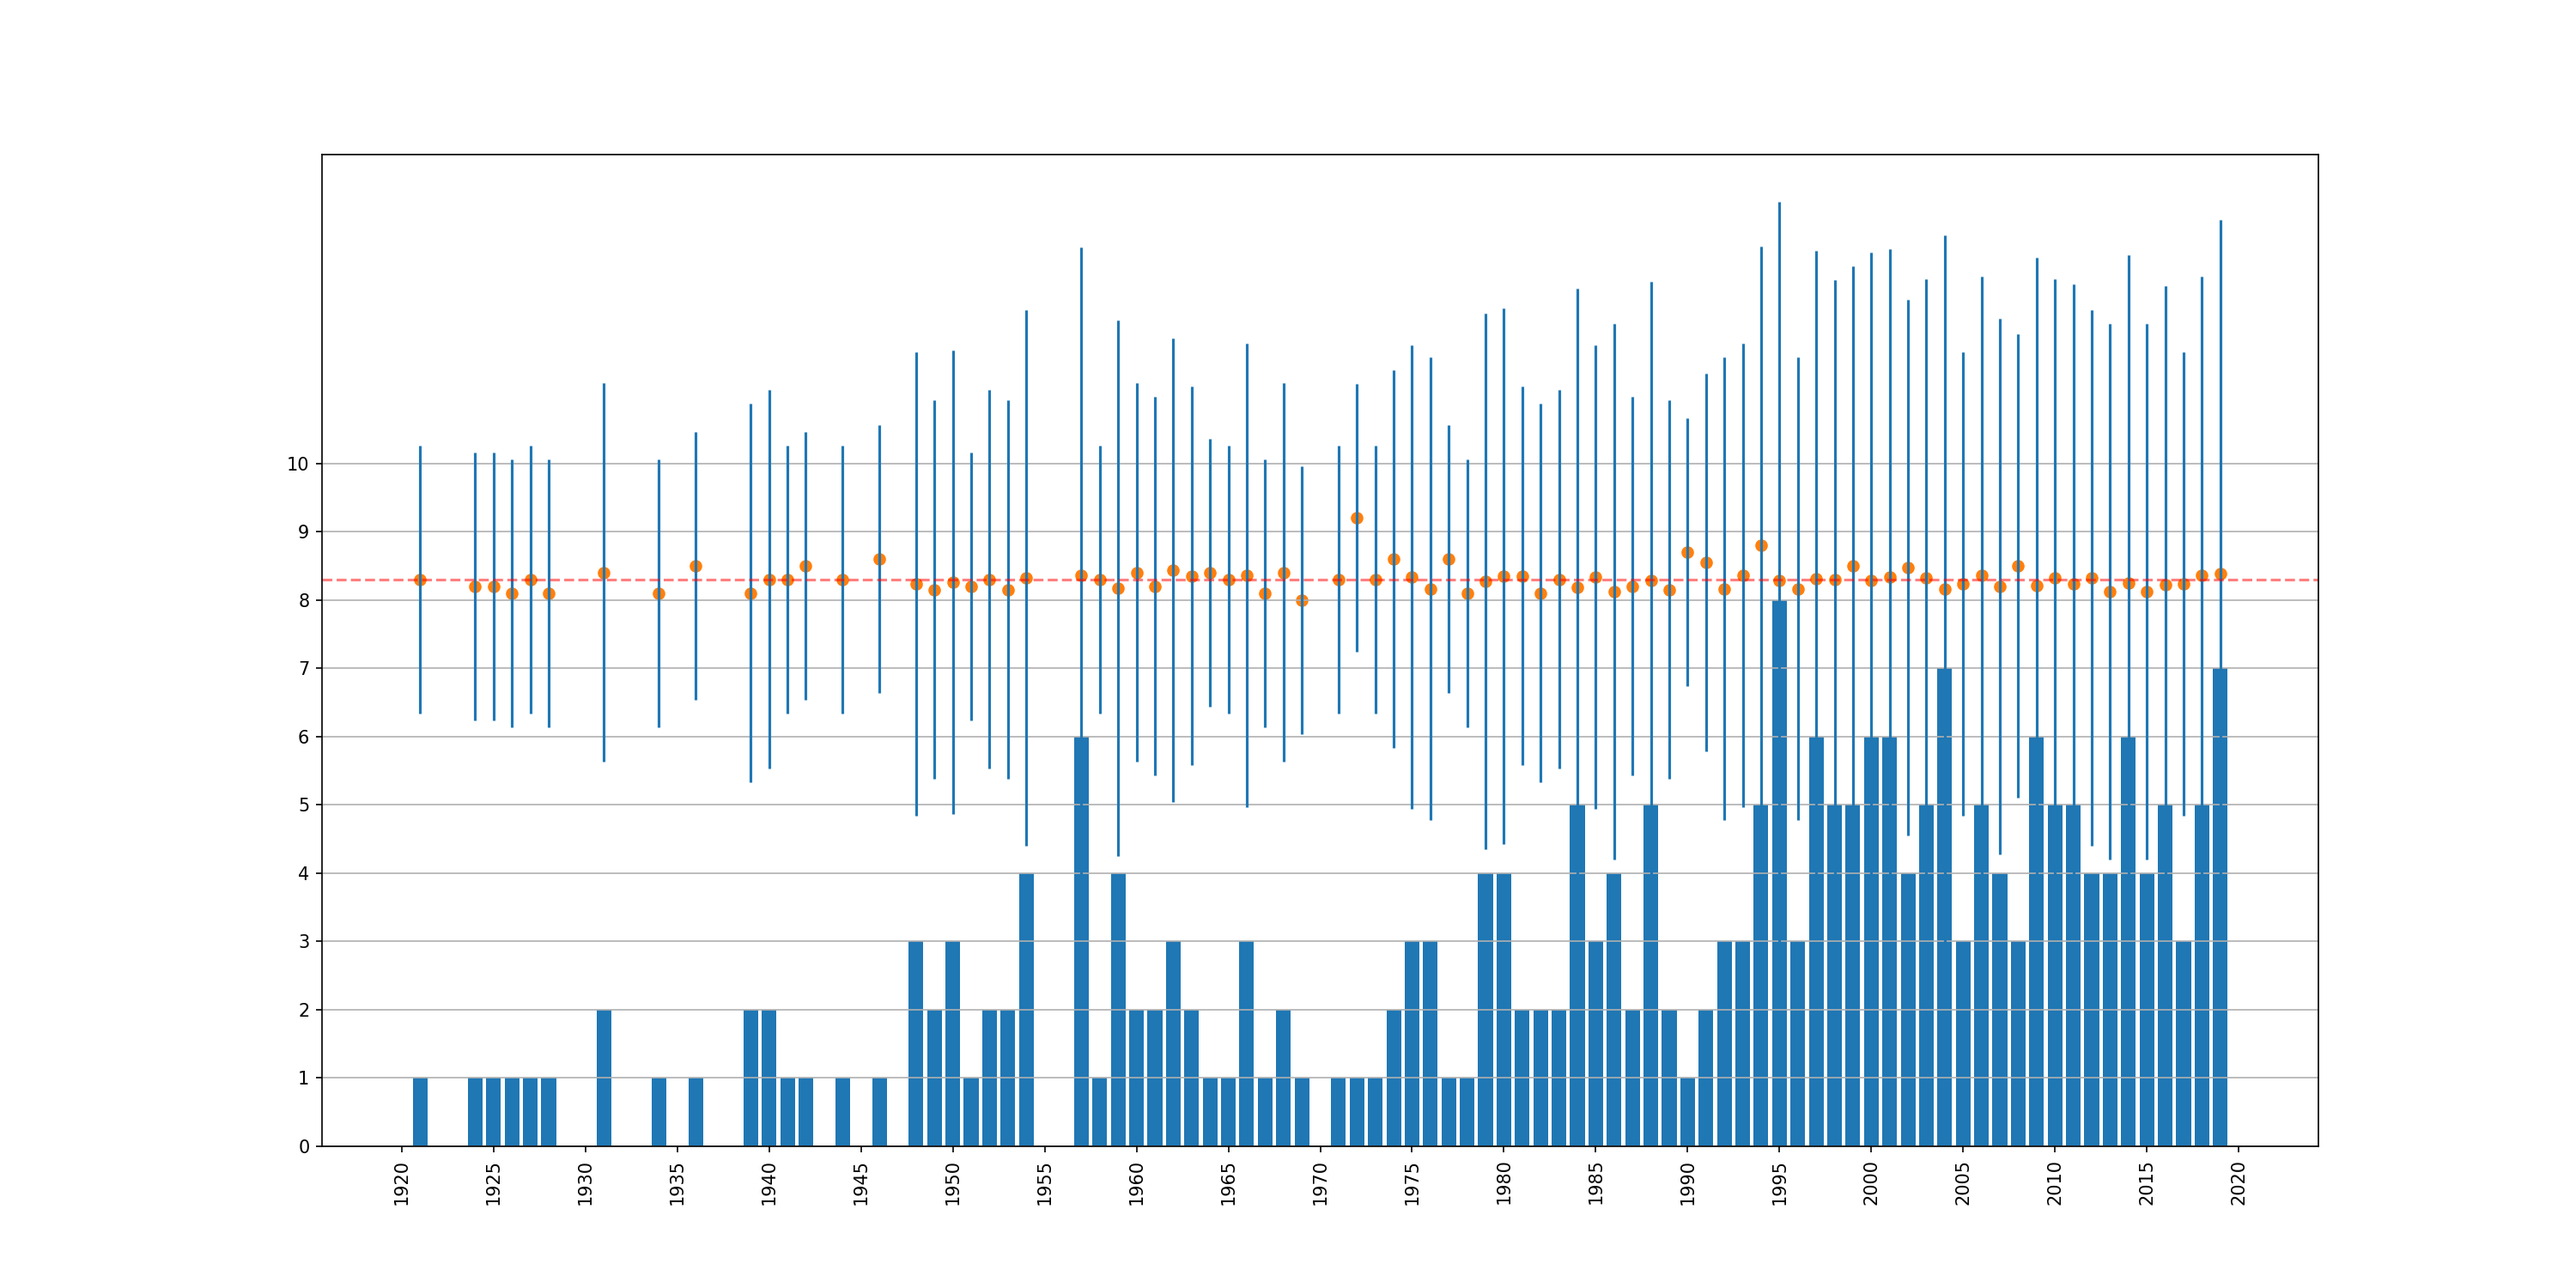
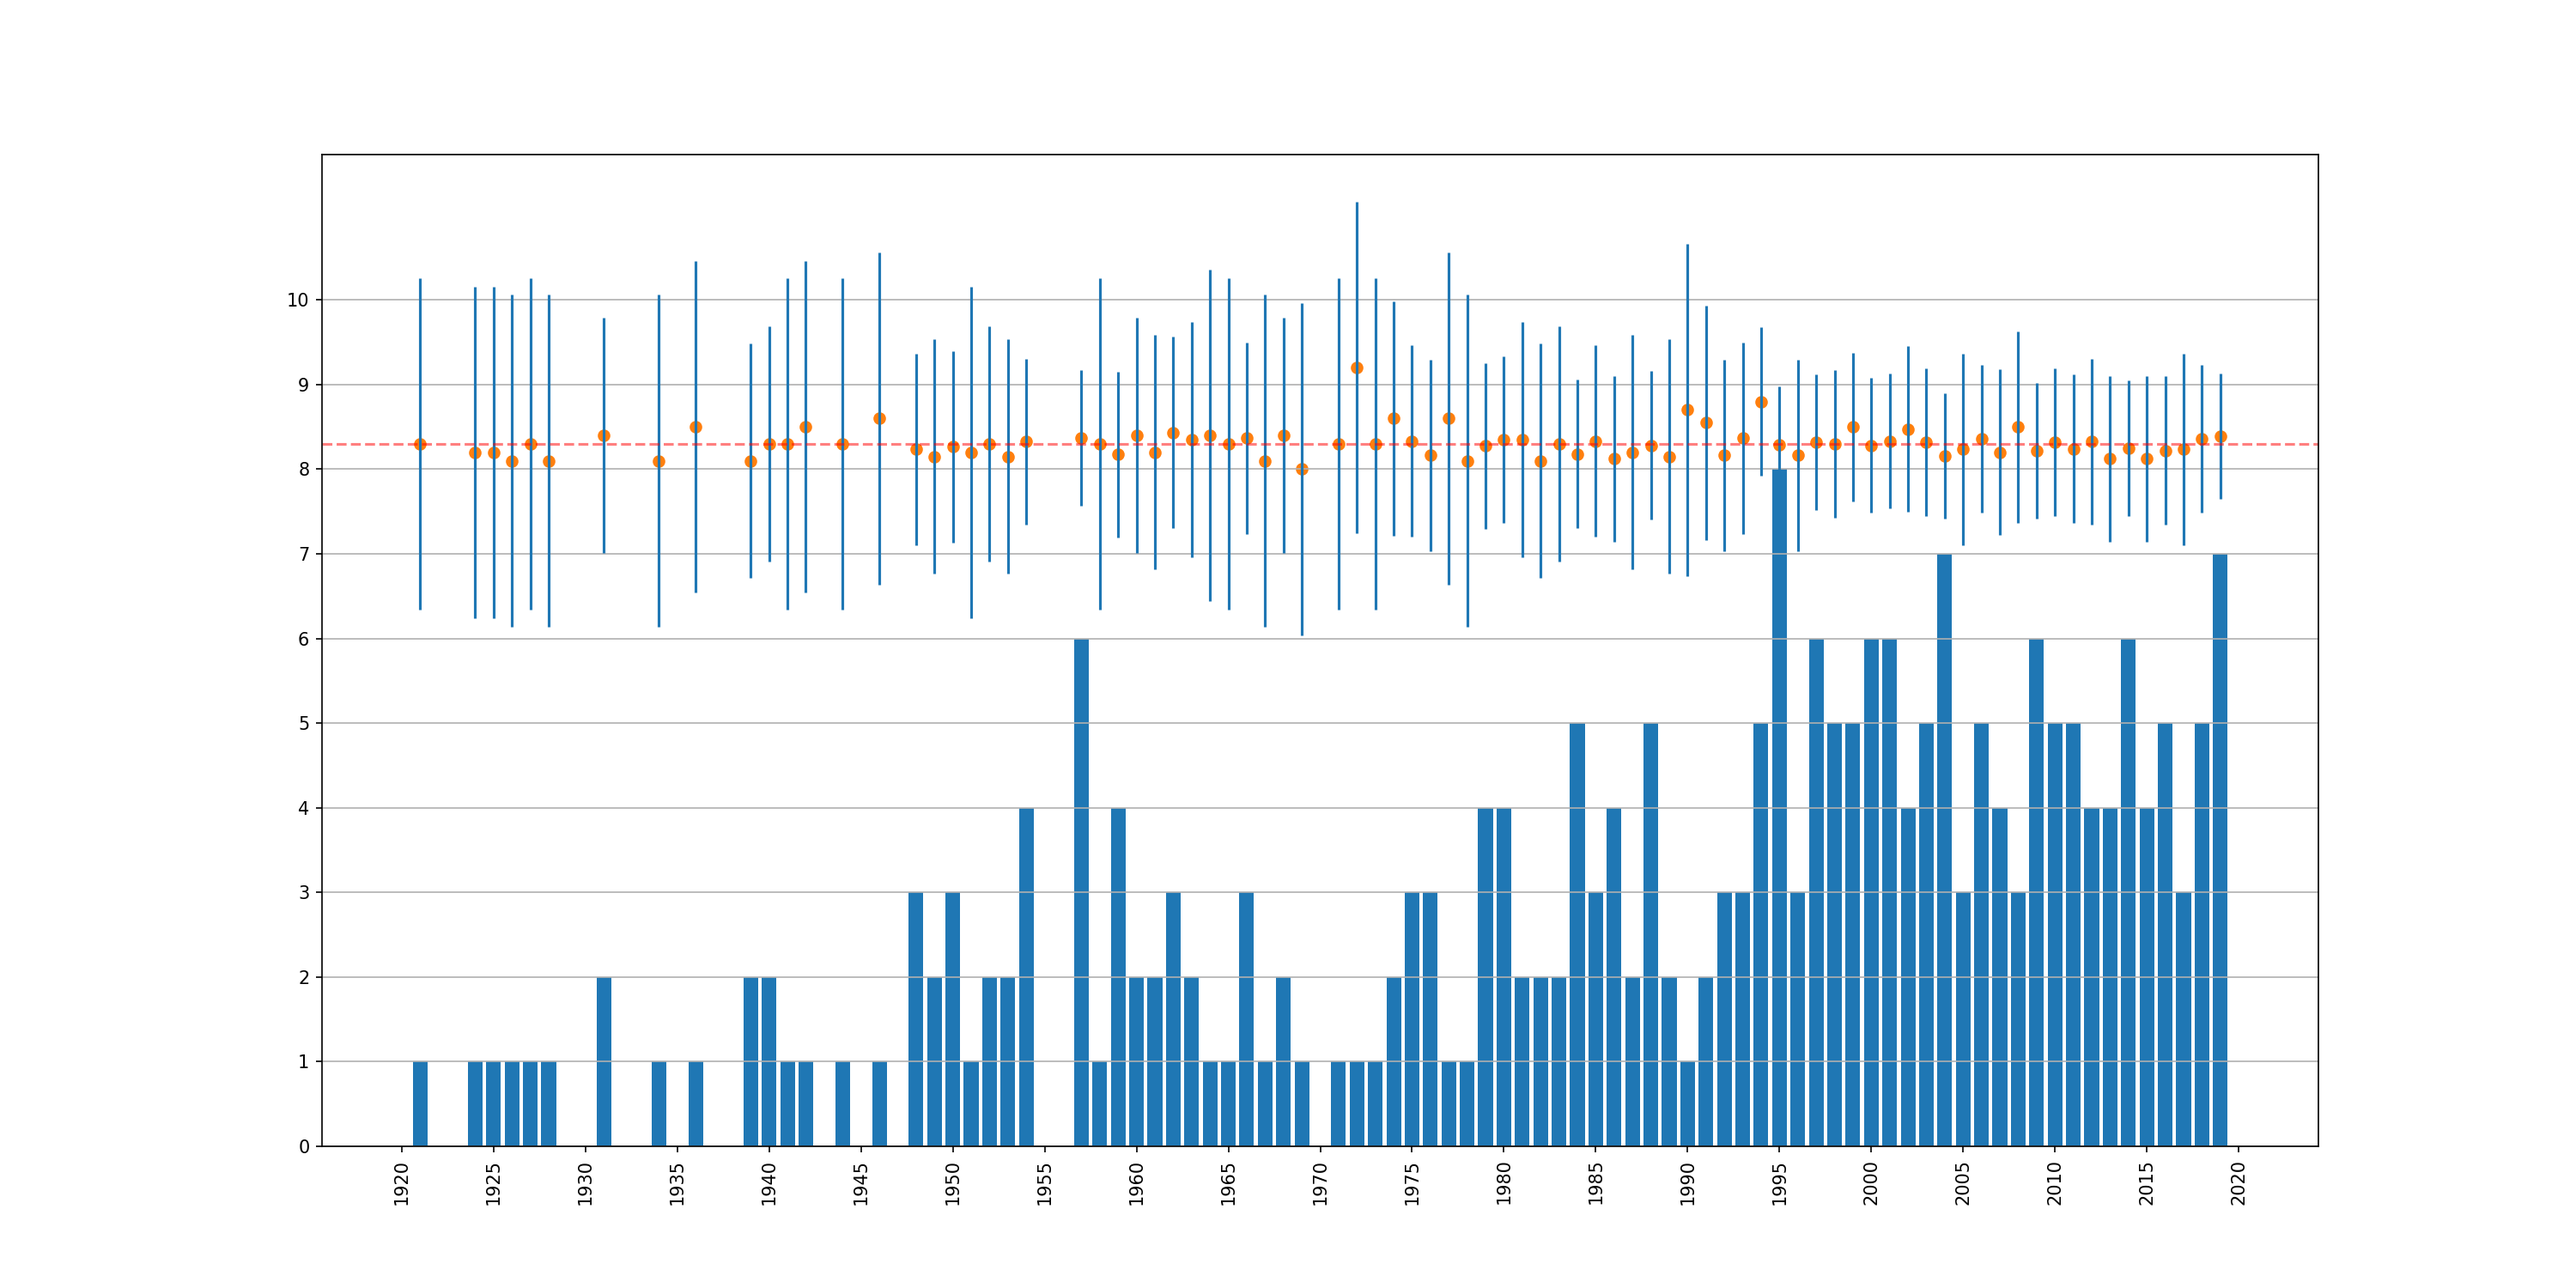
fixed Q4. started createAPI.py to solve Q3

diff --git a/hw2/q4/question4.py b/hw2/q4/question4.py
@@ -31,7 +31,7 @@ df2 = table_per_year.rename_axis('unique_years').reset_index(name='movie_counts'
 #find the average ratings of movies each year
 #plot the average ratings of movies in each year as a scatter plot on top of that. For each point in the scatter plot, add error bars corresponding to 95% intervals.
 agg = df.groupby('year').agg({'title':'count', 'rating':'mean'}).reset_index()
-agg.loc[:,'se'] = agg['title'] / np.sqrt(agg['title'])
+agg.loc[:,'se'] = 1 / np.sqrt(agg['title'])
 agg.loc[:,'lwr'] = agg['rating'] - 1.96*agg['se']
 agg.loc[:,'upr'] = agg['rating'] + 1.96*agg['se']
 #agg

diff --git a/hw2/q3/createAPI.py b/hw2/q3/createAPI.py
@@ -101,7 +101,7 @@ def total_crashes(year=False):
         # If they they did not provide a year return a JSON dictionary of plane
         # crashes for every year we have available
         if year is False:
-            return df.to_dict()
+            return df.to_dict() ## TypeError: 'dict' object is not callable
 
         # If they requested a year we have, return the number of plane crashes
         # for that year
